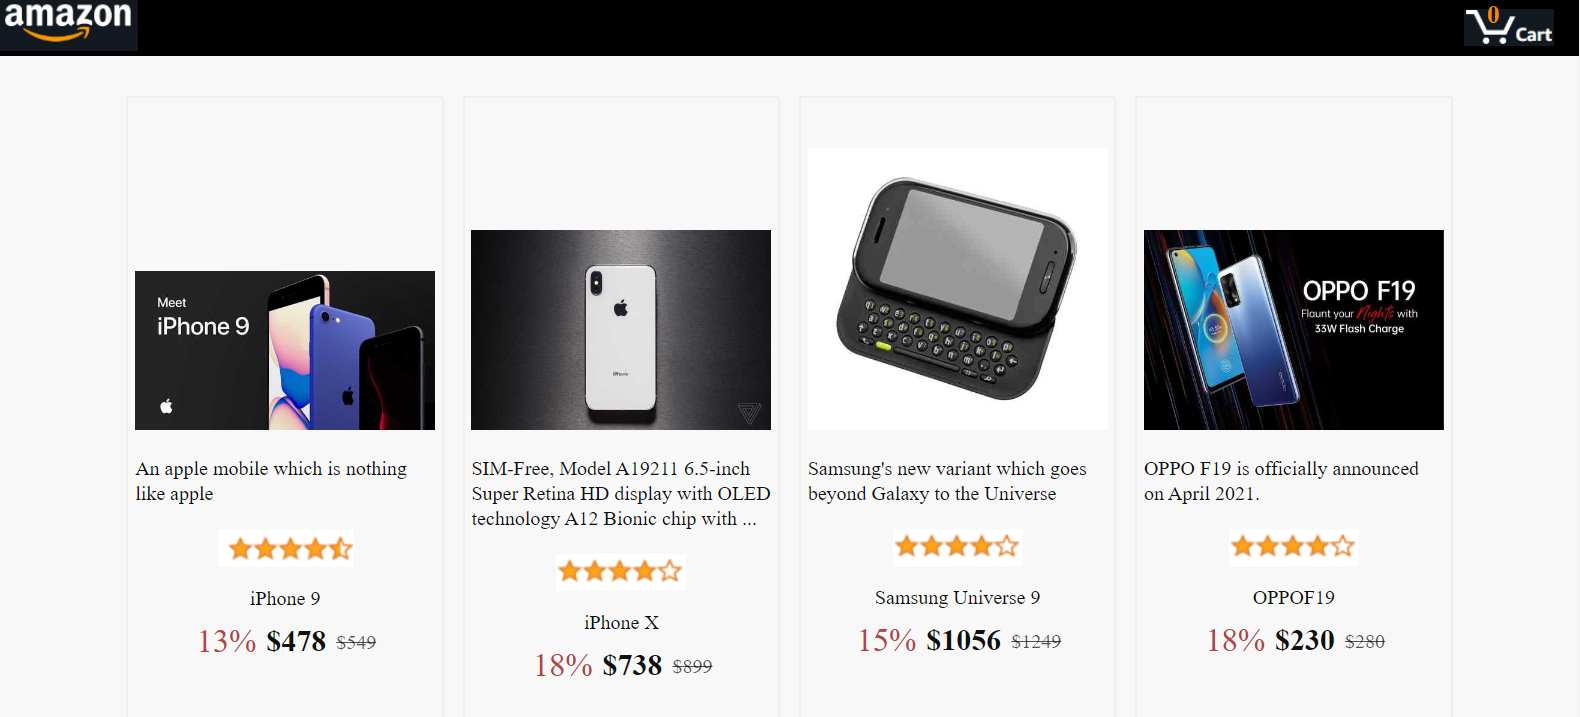
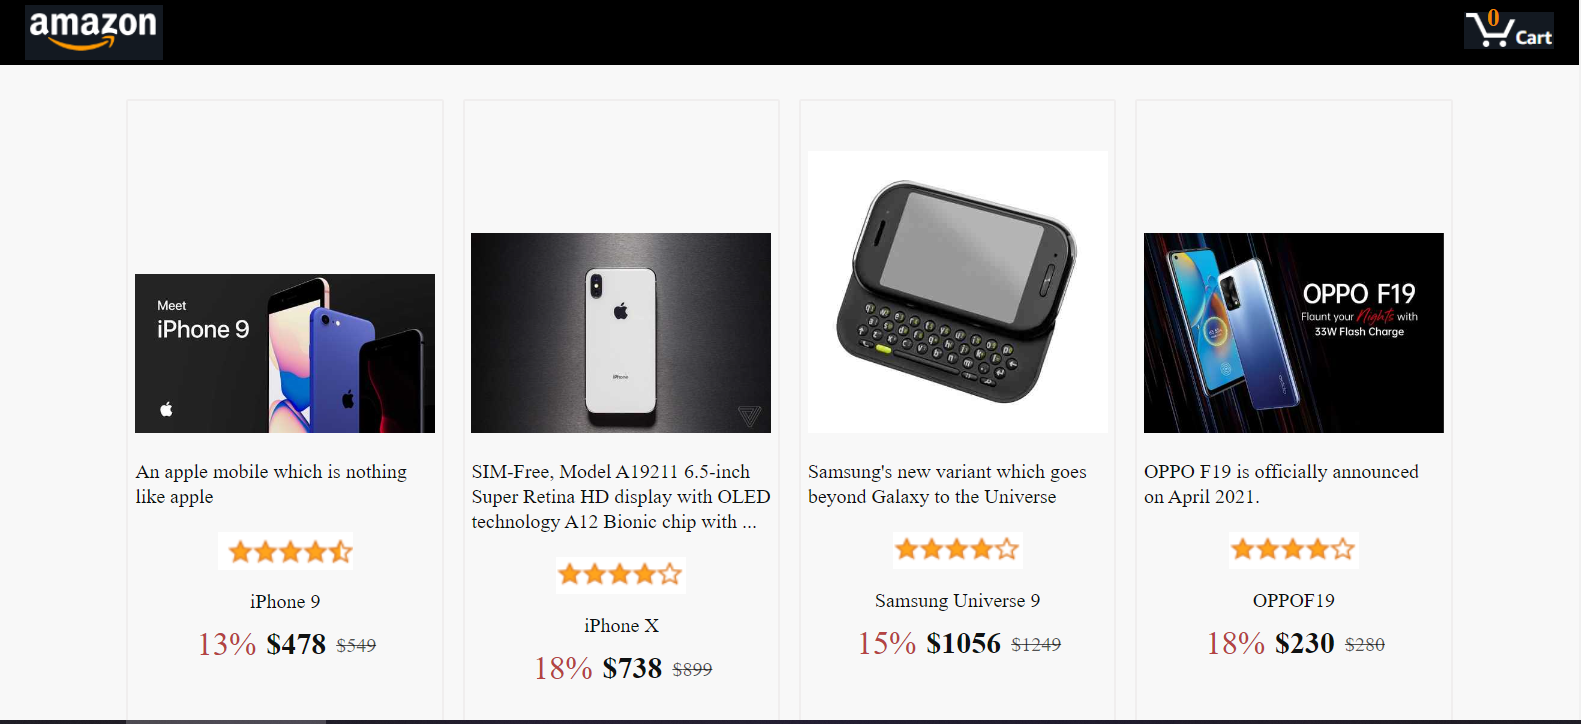
07

diff --git a/src/pages/projects.js b/src/pages/projects.js
@@ -2,14 +2,15 @@ import link from '../images/link.svg';
 import githublogo from '../images/githublogo.svg';
 import servicess from '../images/servicess.PNG';
 import amazonss from '../images/amazonss.PNG';
+import regoss from '../images/regoss.PNG';
 
 export const Projects = () => {
   return (
     <>
-      <div className='grid grid-cols-12 my-14'>
-        <div className=' col-start-3 col-span-10 md:col-span-10 md:col-start-2 my-4 flex flex-col items-center'>
+      <div className='grid grid-cols-12 my-14' id='projects'>
+        <div className=' col-start-2 col-span-10 md:col-span-10 md:col-start-2 my-4 flex flex-col items-center'>
           <span className='md:text-6xl text-4xl mb-20 '>Projects</span>
-          <div className='flex items-center my-24'>
+          <div className='flex flex-col md:flex-row items-center my-24'>
             <div>
               <div className='text-lg py-2'>Featured Project</div>
               <div className='text-xl py-2'>Service NSW Clone</div>
@@ -32,11 +33,11 @@ export const Projects = () => {
               <img src={servicess} alt='service' className='rounded-xl' />
             </div>
           </div>
-          <div className='flex items-center'>
+          <div className='flex flex-col md:flex-row items-center my-10'>
             <div>
               <div className='text-lg py-2'>Featured Project</div>
               <div className='text-xl py-2'>Amazon Clone</div>
-              <div className='text-xl bg-[#c60c3193] rounded-xl p-2 max-w-7xl'>
+              <div className='text-xl bg-[#f08a04dd] rounded-xl p-2 max-w-7xl'>
                 Amazon clone made using React, HTML, and CSS. In background
                 product data will be featched from API. Cart features such as
                 add items, delete items, display total amount and store data on
@@ -54,6 +55,31 @@ export const Projects = () => {
             </div>
             <div>
               <img src={amazonss} alt='service' className='rounded-xl' />
+            </div>
+          </div>
+          <div className='flex flex-col md:flex-row items-center my-10'>
+            <div>
+              <div className='text-lg py-2'>Featured Project</div>
+              <div className='text-xl py-2'>Refund Calculator</div>
+              <div className='text-xl bg-[#78b6f5e9] rounded-xl p-2 max-w-4xl'>
+                Refund calculator for canclede car regestration for Transport
+                for NSW. Date to date calculator. Display final round amount
+                after deducting admin and cancelation fees.
+              </div>
+              <span className='text-xl'>
+                React Bootstrap HTML CSS JavaScript
+              </span>
+              <div className='flex align-center gap-2'>
+                <a href='https://github.com/infodsagar/rego-calc'>
+                  <img src={githublogo} alt='git logo' />
+                </a>
+                <a href='https://rego-nsw.netlify.app/'>
+                  <img src={link} alt='git logo' />
+                </a>
+              </div>
+            </div>
+            <div>
+              <img src={regoss} alt='service' className='rounded-xl' />
             </div>
           </div>
         </div>

diff --git a/src/pages/contact.js b/src/pages/contact.js
@@ -1,10 +1,38 @@
 export const Contact = () => {
   return (
     <>
-      <div>
-        <span>Get in Touch</span>
-        <span>Contact form</span>
-        <span>How this website was built</span>
+      <div className='grid grid-cols-12 mt-24' id='contact'>
+        <div className=' col-start-2 col-span-10 md:col-span-6 md:col-start-4 my-4 flex flex-col items-center'>
+          <span className='md:text-6xl text-4xl mb-14'>Get in Touch</span>
+
+          <form
+            method='POST'
+            action='https://herotofu.com/start'
+            className='flex flex-col  items-center my-4  p-2 min-w-full'
+          >
+            <input
+              type='text'
+              placeholder='Your name'
+              className='my-2 rounded-xl min-w-full py-2'
+            ></input>
+            <input
+              type='email'
+              placeholder='Your email'
+              className='my-2 rounded-xl w-[100%] py-2'
+            ></input>
+            <textarea
+              type='textt'
+              placeholder='Hello Sagar!,'
+              className='my-2 rounded-xl w-[100%] py-2'
+            ></textarea>
+            <button
+              type='submit'
+              className='border-white border-2 rounded-xl w-[60%] my-6 py-2'
+            >
+              Submit
+            </button>
+          </form>
+        </div>
       </div>
     </>
   );

diff --git a/src/pages/navbar.js b/src/pages/navbar.js
@@ -4,23 +4,23 @@ export const Navbar = () => {
   return (
     <>
       <div className='mb-6 flex border-white border-b-[1px] bg-[#00000000] '>
-        <a href='#' className='ml-10 mr-5'>
+        <a href='/' className='md:ml-10 ml:5 mr-5'>
           <img src={logo} className='h-20 p-2' />
         </a>
-        <div className='ml-auto  self-center'>
-          <a href='#' className='p-2'>
+        <div className='self-center absolute right-0'>
+          <a href='/' className='p-2'>
             Home
           </a>
-          <a href='#' className='p-2'>
+          <a href='about' className='p-2 '>
             About
           </a>
-          <a href='#' className='p-2'>
+          <a href='skills' className='p-2 '>
             Skills
           </a>
-          <a href='#' className='p-2'>
+          <a href='projects' className='p-2 '>
             Projects
           </a>
-          <a href='#' className='p-2'>
+          <a href='contact' className='p-2 '>
             Contact
           </a>
           <a href='#' className='p-2'>

diff --git a/src/pages/skills.js b/src/pages/skills.js
@@ -9,7 +9,7 @@ import boot from '../images/boot.svg';
 export const Skills = () => {
   return (
     <>
-      <div className='grid grid-cols-12'>
+      <div className='grid grid-cols-12' id='skills'>
         <div className='flex flex-col items-center col-start-3 col-span-10 md:col-span-6 md:col-start-4 my-4'>
           <span className='md:text-6xl text-4xl my-4'>Skills</span>
           <div className='flex flex-wrap gap-10'>

diff --git a/src/pages/home.js b/src/pages/home.js
@@ -6,7 +6,7 @@ import codelogo from '../images/codelogo.png';
 export const Home = () => {
   return (
     <>
-      <div>
+      <div id='home'>
         <Star />
         <div className='grid grid-cols-12 '>
           <div className='mb-20 flex flex-col justify-items-center min-h-[200px] text-center bg-[#00000061] col-start-2 col-span-10 md:col-span-4 md:col-start-5'>

diff --git a/src/pages/about.js b/src/pages/about.js
@@ -1,7 +1,7 @@
 export const About = () => {
   return (
     <>
-      <div className='my-64 grid grid-cols-12'>
+      <div className='my-64 grid grid-cols-12' id='about'>
         <div className='flex flex-col items-center col-start-2 col-span-10 md:col-span-8 md:col-start-3'>
           <div className='md:text-6xl text-4xl text-[#e8c4c4]'>About Me</div>
 
